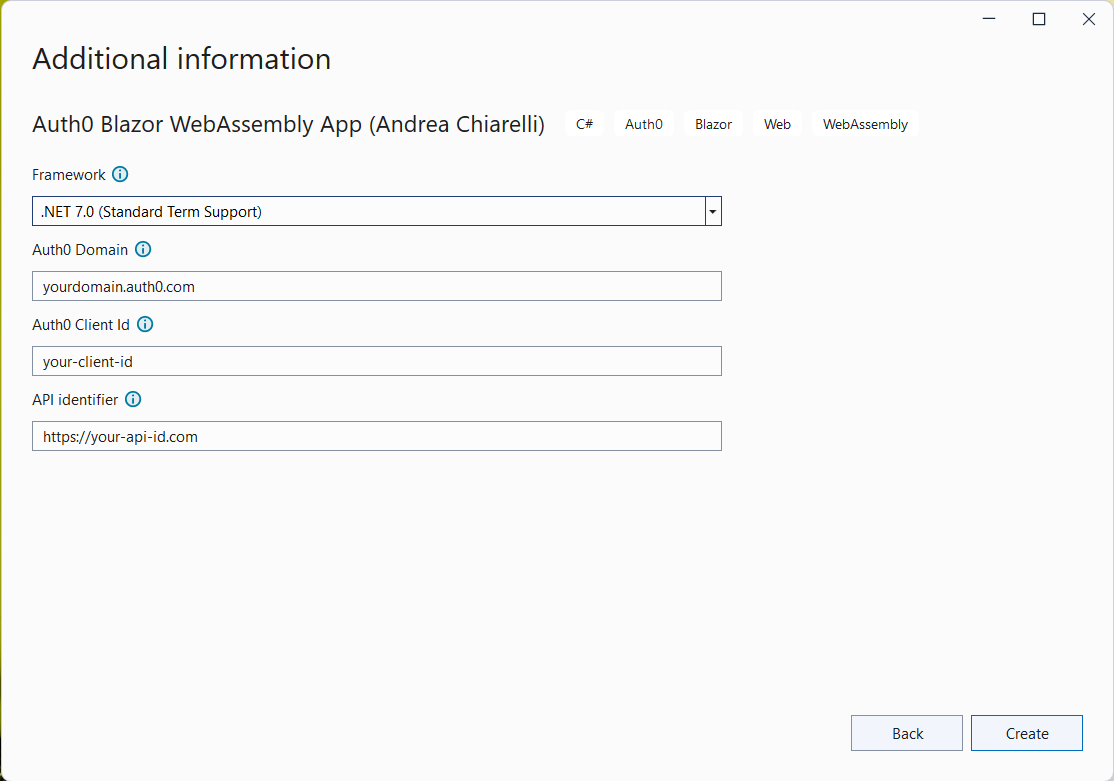
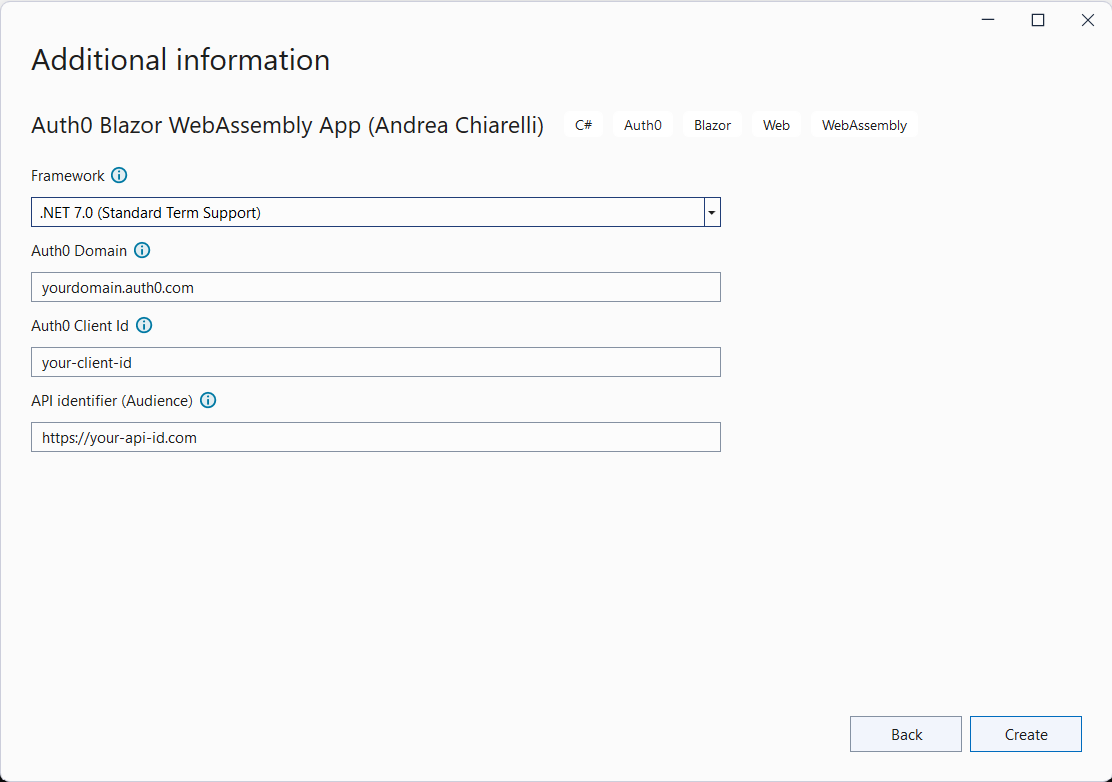
Convert 'api-id' option to 'audience'

diff --git a/docs/auth0blazorwasm.md b/docs/auth0blazorwasm.md
@@ -16,8 +16,8 @@ This will create a new Blazor WebAssembly application in the current folder. The
   The Auth0 domain associated with your tenant. The default value is `yourdomain.auth0.com`.
 - `--client-id`<br>
   The client id associated with your application. The default value is `your-client-id`.
-- `--api-id`<br>
-  The API identifier as defined in your Auth0 dashboard. The default value is `https://your-api-id.com`.
+- `--audience`<br>
+  The API identifier (audience) as defined in your Auth0 dashboard. The default value is `https://your-api-id.com`.
 - `-f` or `--framework`<br>
   Defines the target framework to use for the .NET project. Currently, the only possible value is `net7.0`, which is also the default value.
 

diff --git a/docs/auth0webapi.md b/docs/auth0webapi.md
@@ -14,8 +14,8 @@ This will create a new Web API application in the current folder. The following 
 
 - `--domain`<br>
   The Auth0 domain associated with your tenant. The default value is `yourdomain.auth0.com`.
-- `--api-id`<br>
-  The API identifier as defined in your Auth0 dashboard. The default value is `https://your-api-id.com`
+- `--audience`<br>
+  The API identifier (audience) as defined in your Auth0 dashboard. The default value is `https://your-api-id.com`
 - `-f` or `--framework`<br>
   Defines the target framework to use for the .NET project. Currently, the only possible value is `net7.0`, which is also the default value.
 - `--no-openaPI`<br>
